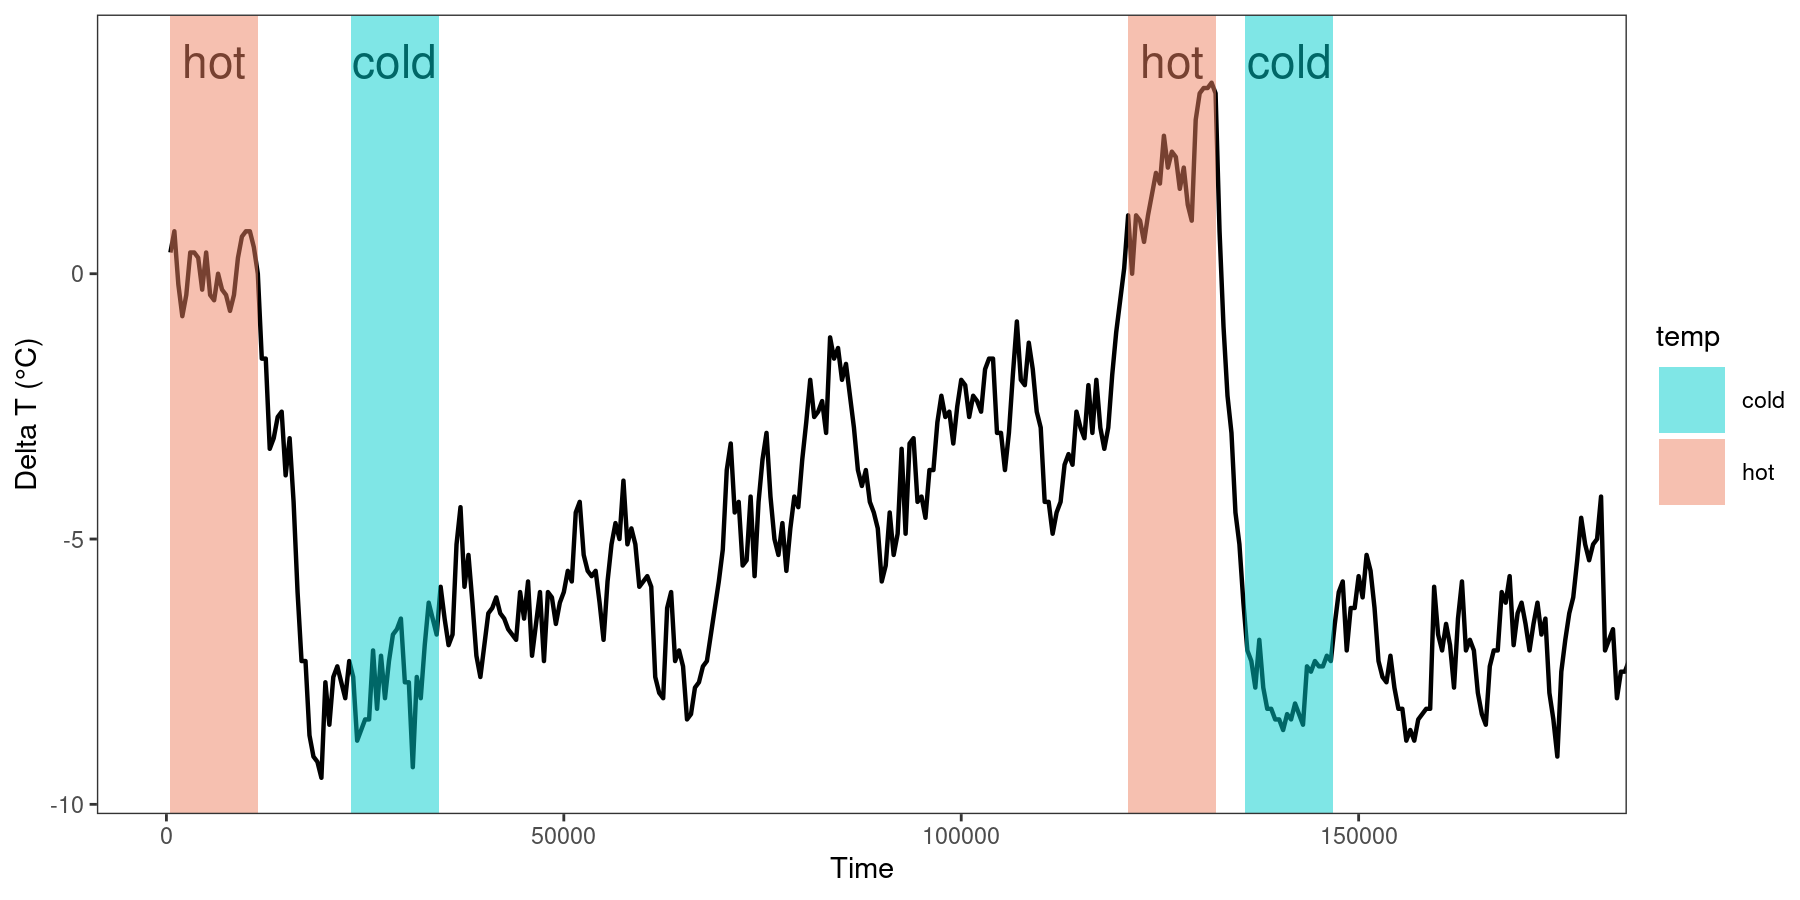
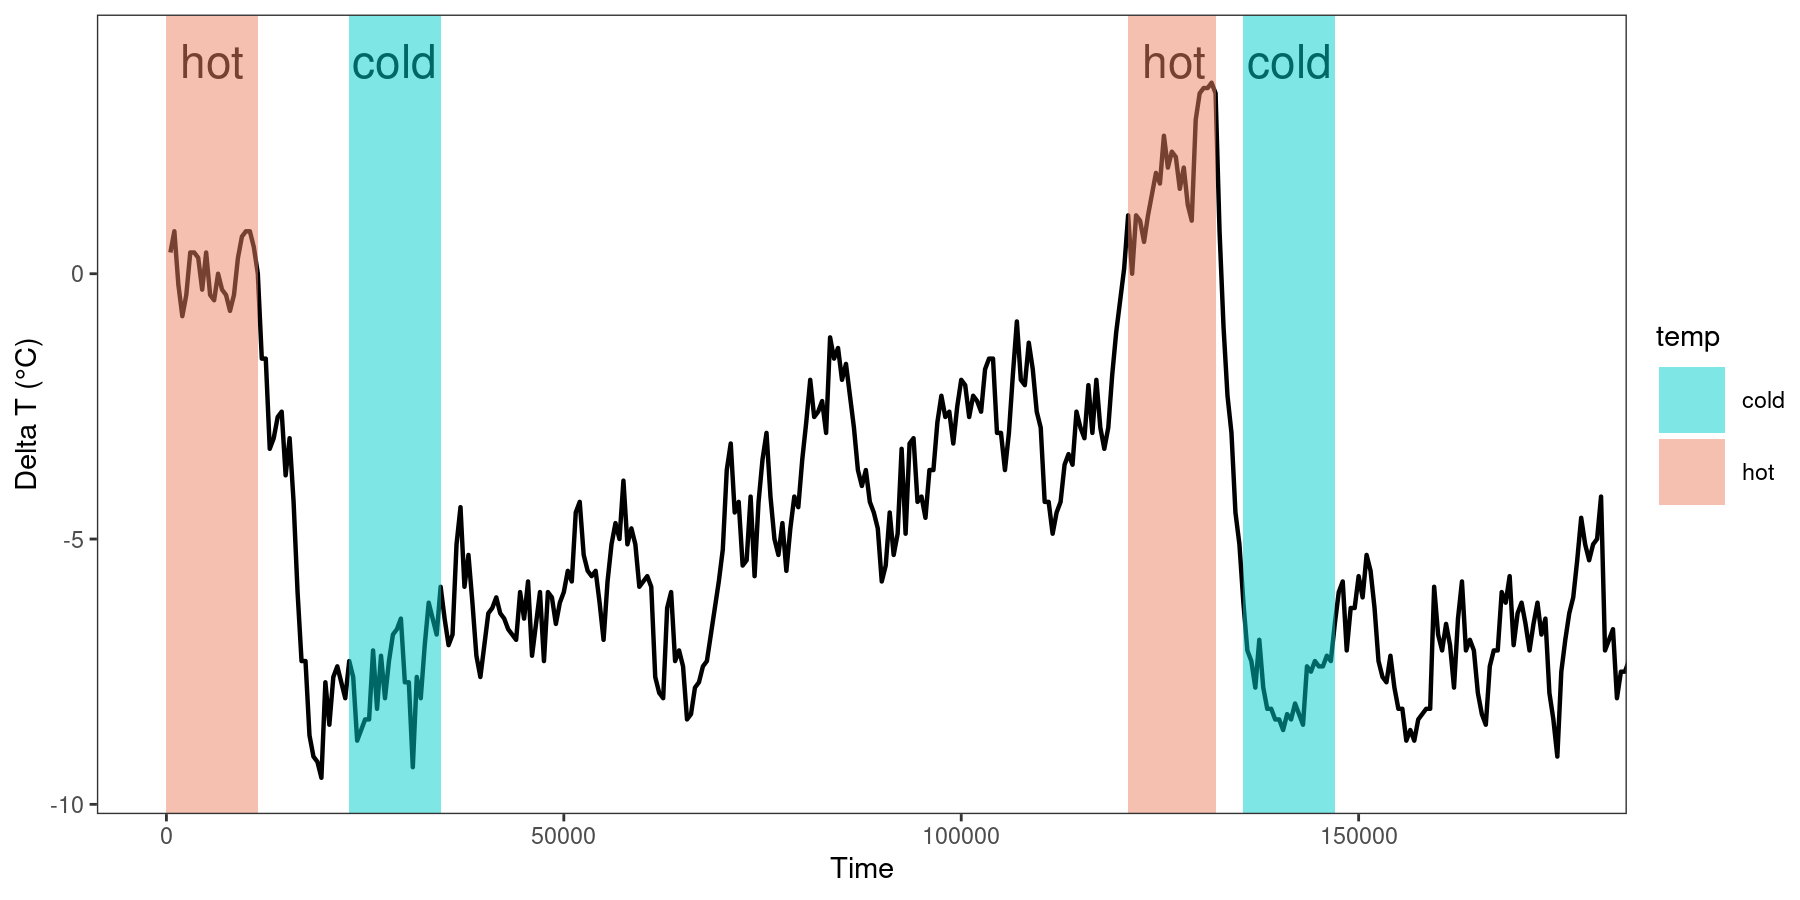
set climate periods ensuring contemporary year = 0

Changed region(s): [[0.6222, 0.0622, 0.6844, 0.0933], [0.0933, 0.0622, 0.1556, 0.0933]]

diff --git a/temperature_periods/README.md b/temperature_periods/README.md
@@ -11,23 +11,25 @@ Quantitatively assign a hot and cold period, one recent ( < 5e4) and one ancient
 For example: identifying recent hot times:
 
 ```
-# Hot times, recent 
+# Hot times, recent, set the low estimate to modern day (0) 
 hot_young <- icecore %>%  filter(time < 5e4) %>% slice_max(deltaT,n=20) %>% 
-  summarize(time_low = min(time), time_high = max(time), temp = mean(deltaT), duration = time_high - time_low)
+  summarize(time_low = 0, time_high = max(time), temp = mean(deltaT), duration = time_high - time_low)
 
   time_low time_high  temp duration
      <dbl>     <dbl> <dbl>    <dbl>
-1      500     11500  0.17    11000
+1      0     11500  0.17    11500
 ```
 
 But, we want our time periods to be a similar duration. I find the midpoitn of the cold periods, and then add +/- 5500 so that all periods are the same duration.
 
-w | time_high | temp | duration | period  | adj_low | adj_high | adj_duration |
-| -------- | --------- | ---- | -------- | ------- | ------- | -------- | ------------ |
-| 500      | 11500     | hot  | 11000    | recent  | 500     | 11500    | 11000        |
-| 18000    | 39500     | cold | 21500    | recent  | 23250   | 34250    | 11000        |
-| 121000   | 132000    | hot  | 11000    | ancient | 121000  | 132000   | 11000        |
-| 139500   | 143000    | cold | 3500     | ancient | 135750  | 146750   | 11000        |
+
+| Temperature | Period  | Time_Low | Time_High | Duration |
+| ----------- | ------- | -------- | --------- | -------- |
+| hot         | recent  | 0        | 11500     | 11500    |
+| cold        | recent  | 23000    | 34500     | 11500    |
+| hot         | ancient | 121000   | 132000    | 11000    |
+| cold        | ancient | 135500   | 147000    | 11500    |
+
 
 
 Which gives us:
@@ -46,9 +48,9 @@ library(tidyverse)
 icecore = read_tsv('/dss/dsslegfs01/pr53da/pr53da-dss-0021/projects/2023__MigratoryGenomics/analyses/figures/Ice_Temperature_Reconstructions_Kawamura_NOAA-6076.txt')
 icecore = icecore %>% dplyr::rename(time = TopAge)
 
-# Hot times, recent 
+# Hot times, recent, set the low estimate to modern day (0) 
 hot_young <- icecore %>%  filter(time < 5e4) %>% slice_max(deltaT,n=20) %>% 
-  summarize(time_low = min(time), time_high = max(time), temp = mean(deltaT), duration = time_high - time_low)
+  summarize(time_low = 0, time_high = max(time), temp = mean(deltaT), duration = time_high - time_low)
 
 # Cold times, recent
 cold_young <- icecore %>%  filter(time < 5e4) %>% slice_min(deltaT,n=20) %>% 
@@ -67,21 +69,22 @@ periods <- rbind(hot_young, cold_young, hot_old, cold_old) %>%
          period = c('recent','recent','ancient','ancient'))
 periods
 
-# Hot times are 11 Ka, but our cold times are 21.5 Ka and 19 Ka, so just take midpoint of those cold dates
+# Shortest time is hot recent: 11.5K, adjust others taking the midpoint and ensuring they are all 11.5K
 periods <- periods %>% 
   mutate(
     #Calculate midpoint (duration / 2 + low point, and then add the interval on either side 
-    adj_low = ifelse(temp == 'cold', ((duration / 2 ) + time_low) - 5500, time_low),
-    adj_high = ifelse(temp == 'cold', ((duration / 2 ) + time_low) + 5500, time_high),
+    adj_low = ifelse(temp == 'cold', ((duration / 2 ) + time_low) - 5750, time_low),
+    adj_high = ifelse(temp == 'cold', ((duration / 2 ) + time_low) + 5750, time_high),
     adj_duration = adj_high - adj_low
   )
+periods
 
 # Kawamura NOAA 6076 Ice core inferred temperature
 ice_plot <- icecore %>% 
   ggplot(aes(x = time, y = deltaT)) +
   geom_line()+
   #annotate(geom='rect',xmin=2e4,xmax=2.6e4,ymin=-Inf,ymax=Inf,fill='grey80',alpha=0.5)+
-  geom_text(data=periods,aes(x=adj_low+5500,y=4,label=temp),col='black')+
+  geom_text(data=periods,aes(x=adj_low+5750,y=4,label=temp),col='black')+
   coord_cartesian(xlim=c(0,1.75e5))+
   geom_rect(data=periods,aes(xmin=adj_low,xmax=adj_high,ymin=-Inf,ymax=Inf,fill=temp),
             alpha=0.5,inherit.aes=FALSE)+
@@ -90,7 +93,7 @@ ice_plot <- icecore %>%
   theme_test(base_size=7)
 ice_plot
 
-png('~/merondun/cuculus_migration/figures/WarmCold_Periods.png',quote=F,sep='\t',row.names=F)
+png('~/merondun/cuculus_migration/figures/WarmCold_Periods.png',units='in',res=300,height=3,width=6)
 ice_plot
 dev.off()
 ```
